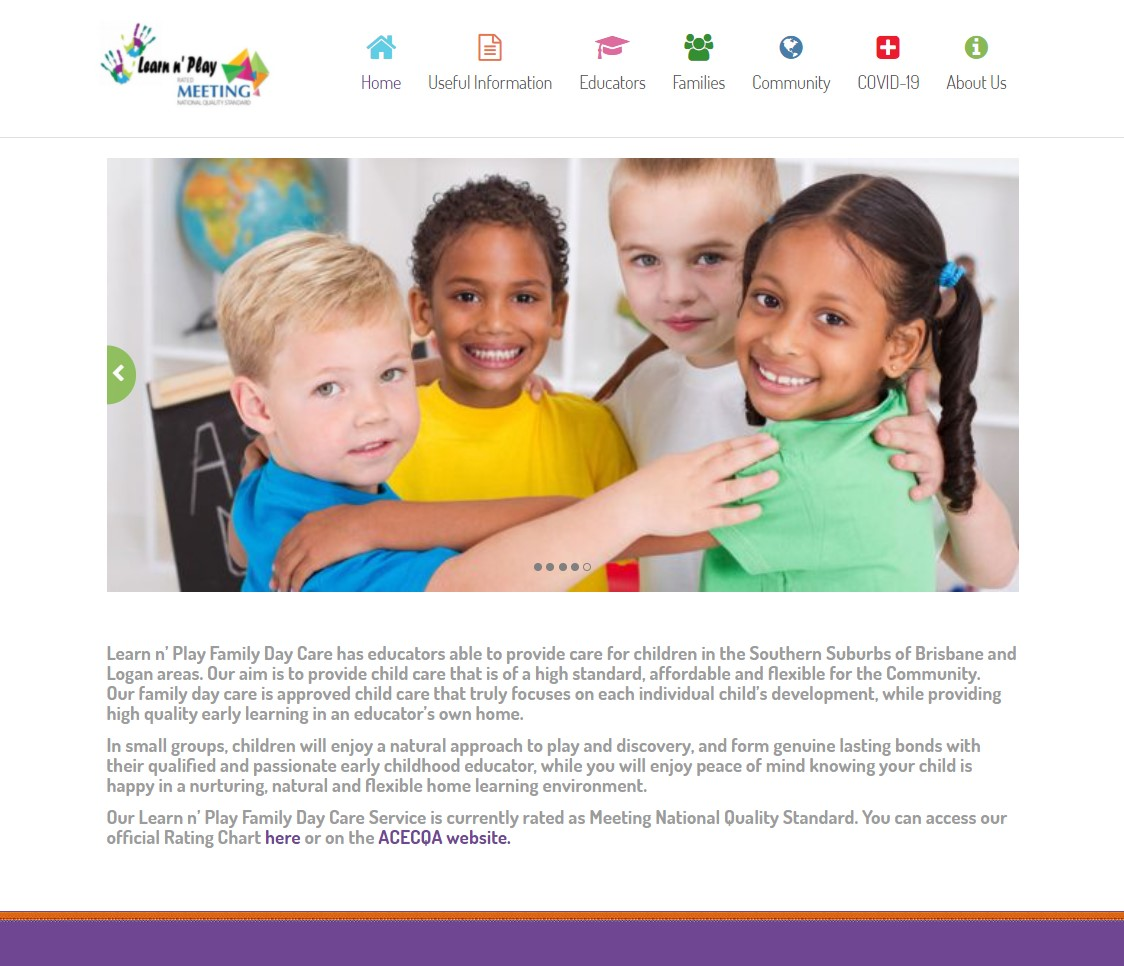
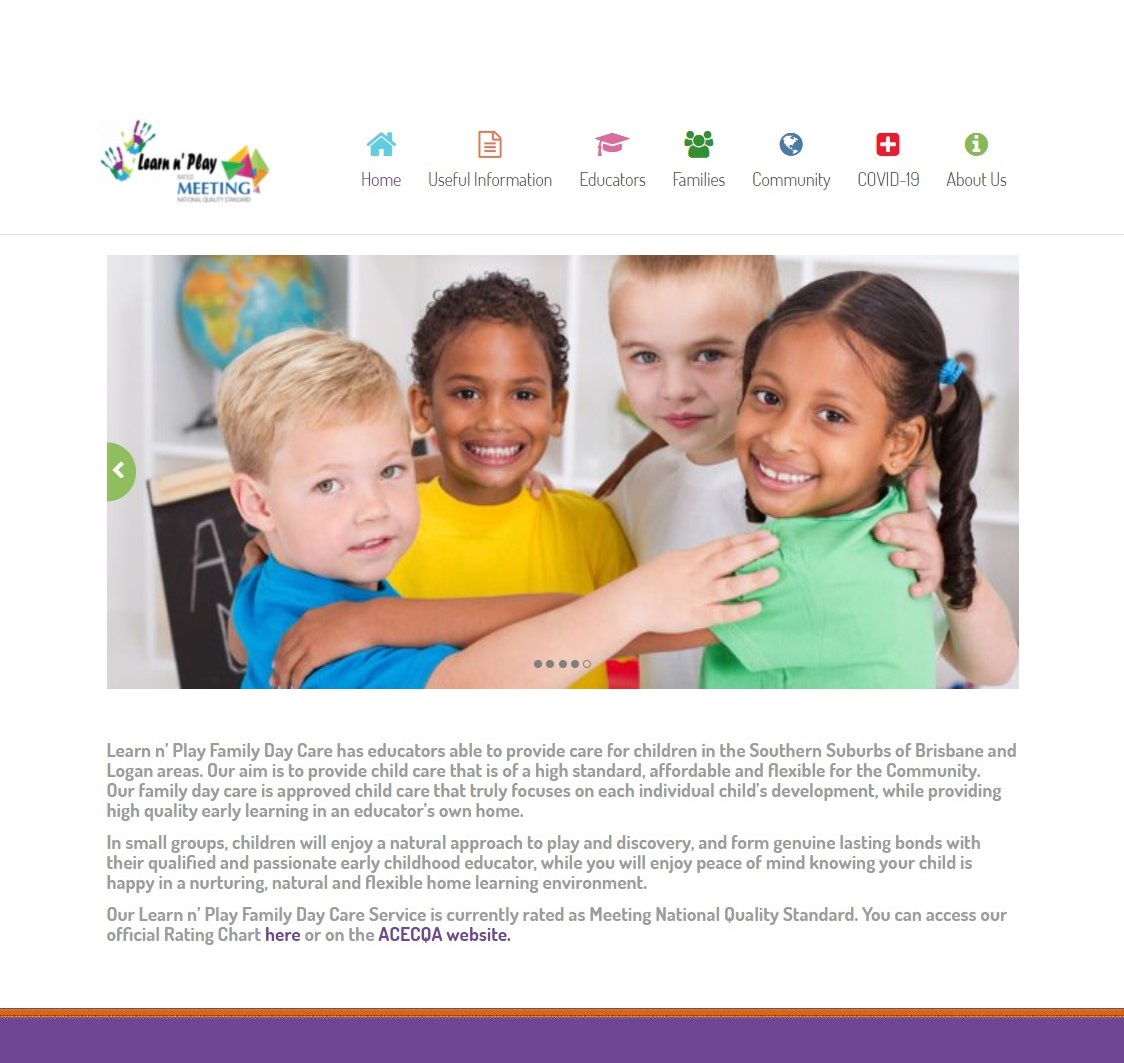
Change image dimensions and layout

diff --git a/_sass/_base.scss b/_sass/_base.scss
@@ -224,7 +224,7 @@ header {
 .portfolio-box {
     position: relative;
     display: block;
-    height: 700px;
+    height: 675px;
     width: 100%;
     margin: 0 auto;
     .portfolio-box-caption {
